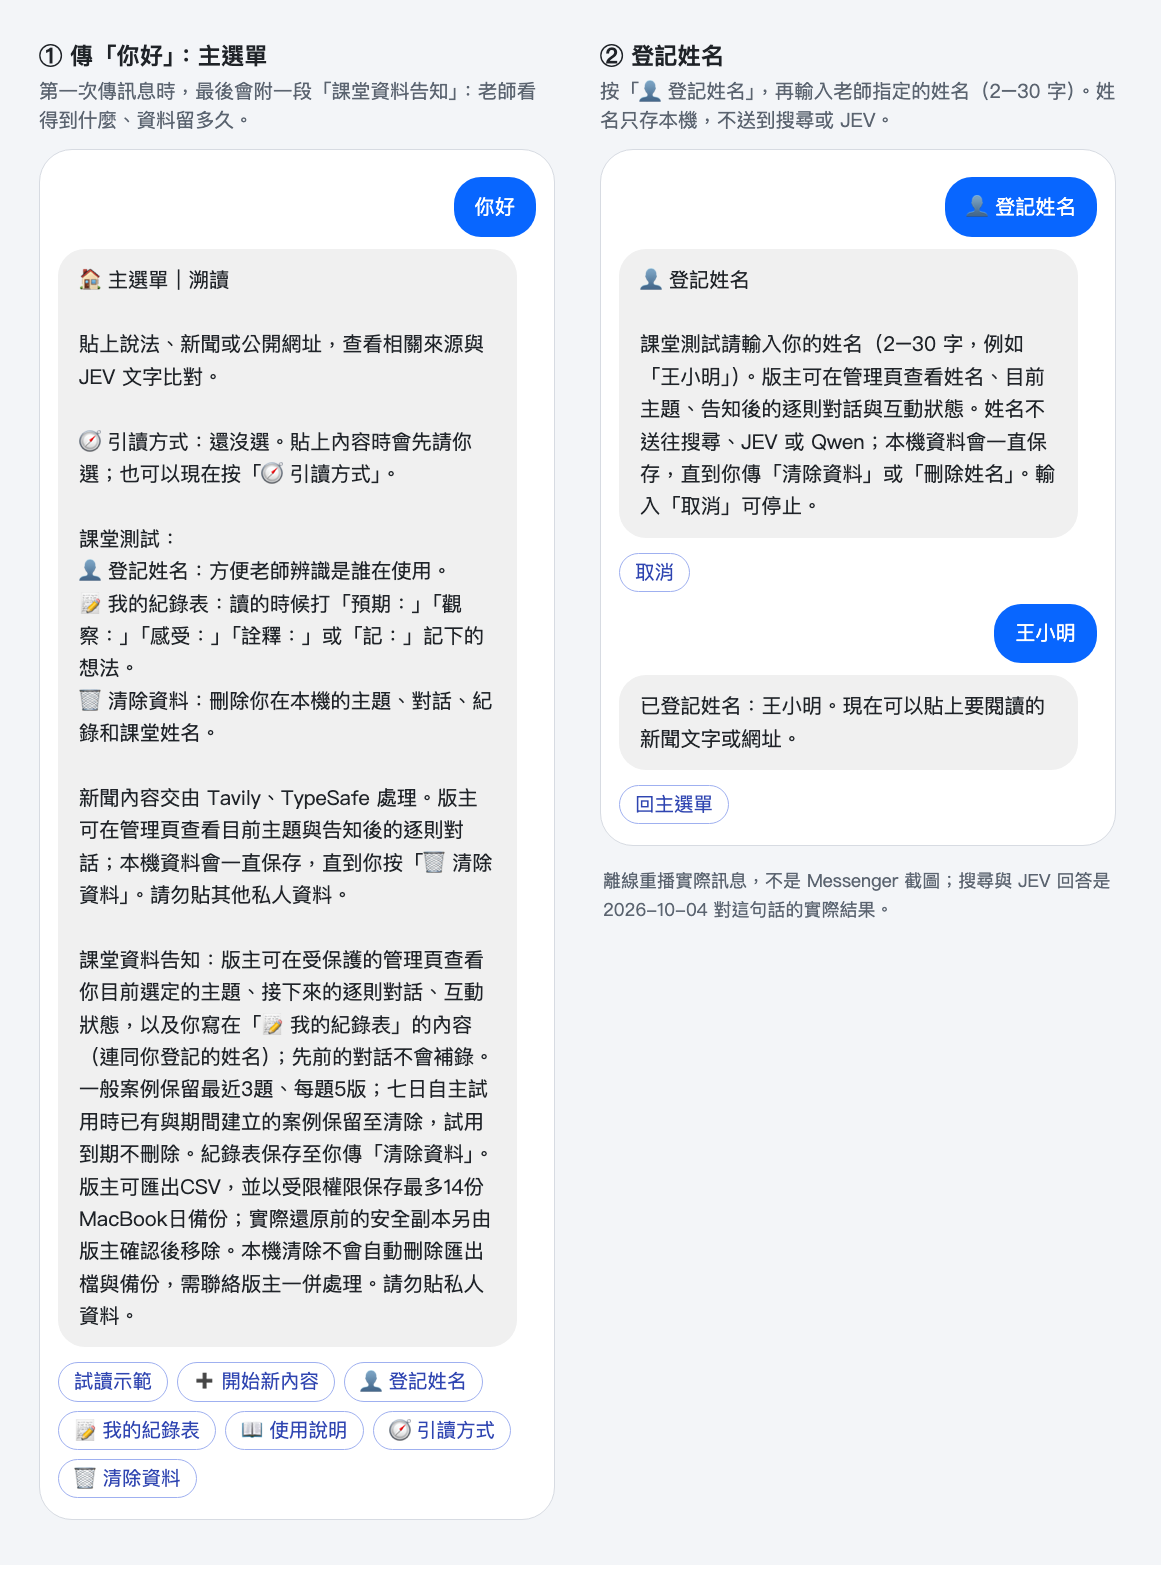
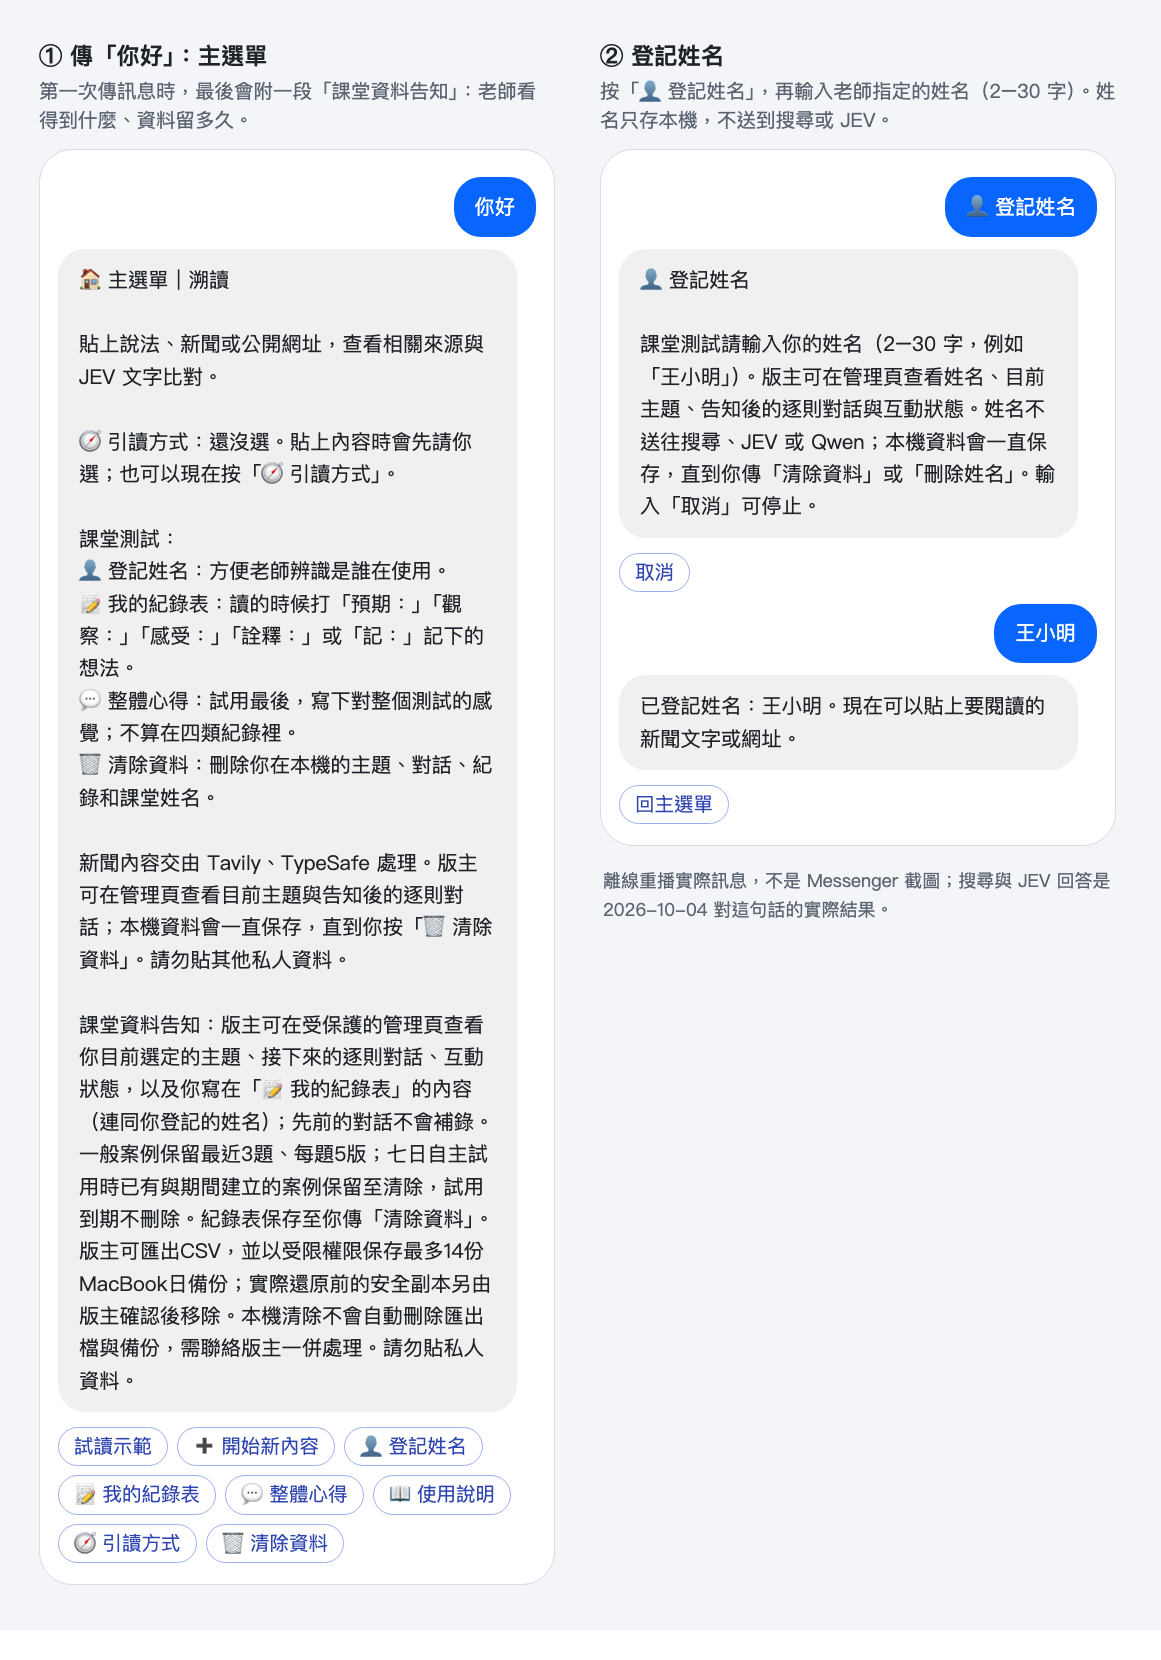
整體心得：側邊選單「💬 整體心得」或打「心得：」，不算在四類裡；圖片更新

diff --git a/README.md b/README.md
@@ -37,6 +37,7 @@
 | 每句最多細讀 2 個來源 | 為了控制等待時間和用量。其他來源只做初篩，在「📚 全部來源」看得到狀態和原因。 |
 | 同一次結果不重新搜尋 | 上一頁、翻頁、換頁只是重看已保存的內容，不花額度。只有「再找資料」「再找這一段」或貼新內容才會再搜尋。 |
 | 📝 使用紀錄表 | 讀的時候打「預期：」「觀察：」「感受：」「詮釋：」「記：」記下想法，閱讀位置不變。老師看得到（連同你登記的姓名）。 |
+| 💬 整體心得 | 試用最後，從側邊選單按「💬 整體心得」（或打「心得：」）寫對整個測試的感覺。另列一區，不算在四類裡。 |
 
 ### 兩種引讀的四步
 
@@ -128,7 +129,7 @@
 
 ![預期、觀察、記：（再按 🏷 觀察分類）的實際回覆](images/student/05-notes-1.png)
 
-![感受、詮釋的實際回覆，以及我的紀錄表](images/student/05-notes-2.png)
+![感受、詮釋的實際回覆、我的紀錄表，以及從側邊選單寫的整體心得](images/student/05-notes-2.png)
 
 | 類別 | 什麼時候寫 | 這個例子寫的 | 機器人回覆 |
 |---|---|---|---|
@@ -150,8 +151,17 @@
 
 - 記下之後，閱讀位置和選項都不變，不算一步。機器人**不回應、不糾正**你寫的內容，也不會拿去搜尋。
 - 「記：」底下會多四個 🏷 按鈕可以馬上分類；不按也行，之後在紀錄表按「🏷 整理未分類」。
-- 打「紀錄表」看全部：依主題、頁和四類排好，沒分類的另列「未分類」，每頁 8 則；「預期」底下寫出「→ 接著看到：…」，方便你對照猜得準不準。按「全文 N」看完整內容。
+- 打「紀錄表」看全部：依主題、頁和四類排好，沒分類的另列「未分類」，整體心得另列在最上面的「━ 整體心得」，每頁 8 則；「預期」底下寫出「→ 接著看到：…」，方便你對照猜得準不準。按「全文 N」看完整內容。
 - 每筆最多保存 2,000 字；寫錯了就另補一筆更正。
+
+#### 💬 整體心得：試用最後寫一筆
+
+上面五種都是讀某一頁時的紀錄。**整體心得**不一樣：寫的是你對**整個測試**的感覺與想法，例如哪裡好用、哪裡困惑、引讀 A 和 B 哪一種比較好讀、為什麼。上圖最右邊一欄是王小明寫的實際回覆：
+
+- 從輸入框旁的側邊選單（或主選單）按「💬 整體心得」。機器人說明要寫什麼、你已經寫了幾則，並請你直接傳下一則訊息。
+- **10 分鐘內傳的下一則訊息**就存成整體心得，不用寫類別；回覆是「📝 記下了（整體心得）」。不想寫了就按「取消」；在這之前按了其他按鈕、打了指令或別的紀錄（例如「觀察：…」），就不會被當成整體心得。
+- 也可以隨時直接打「心得：……」或「整體心得：……」。
+- 整體心得不屬於任何主題、頁或引讀，**不算在預期、觀察、感受、詮釋的則數裡**；紀錄表裡另列在「━ 整體心得」。閱讀位置和選項都不變；老師看得到（連同你登記的姓名）。
 
 ### 6. 迷路時：地圖、⋯ 更多、換引讀
 
@@ -200,6 +210,7 @@
 - [ ] 「記：」寫的紀錄**一定要分類**（按 🏷，或在紀錄表按「🏷 整理未分類」）；沒分類的不算在四類裡。
 - [ ] 每篇新聞讀完 A 和 B 之後，寫一筆總結（見下方「交件」）。
 - [ ] 遇到問題就記一則「觀察：」問題回報。
+- [ ] 試用最後，從側邊選單按「💬 整體心得」寫一筆對整個測試的感覺（或打「心得：…」）；這一筆不算在每類 2 筆裡。
 
 ### 紀錄怎麼寫
 
@@ -210,6 +221,7 @@
 | 感受： | 當下的感覺 | 感受：沒有日期讓我不放心 |
 | 詮釋： | 你怎麼解讀 | 詮釋：可能是把舊聞當新消息 |
 | 記： | 來不及分類，先記下 | 記：來源 3 好像是轉貼 |
+| 心得： | 試用最後，對整個測試的感覺（不算在四類裡；也可以按側邊選單的「💬 整體心得」） | 心得：A 比較好讀，因為先給結論再逐段看 |
 
 **問題回報**也用「觀察：」，照這個格式寫：
 
@@ -265,13 +277,14 @@
 | 近期主題、全部主題、回到 2 | 最近 3 個主題、所有保存的主題、切回第 2 個主題 |
 | 預期：… 觀察：… 感受：… 詮釋：… 記：… | 記一則紀錄 |
 | 紀錄表、整理未分類 | 我的紀錄表；把「記：」一則一則分類 |
+| 心得：…、整體心得：… | 寫一筆整體心得（不算在四類裡）；只打「整體心得」會先說明要寫什麼 |
 | 再找研究 | 補搜尋（會花額度） |
 | 清除資料 | 刪除你的資料（會先問一次） |
 
 ### 不會消失的按鈕
 
-- **輸入框旁的固定選單**：▶ 下一步、↩ 上一步、📌 回第一步、🏠 主選單、🗂 近期主題、🧭 引讀方式。
-- **主選單**：↩ 繼續閱讀（或 🗂 近期主題／試讀示範）、➕ 開始新內容、👤 登記姓名、📝 我的紀錄表、📖 使用說明、🧭 引讀方式、🗑 清除資料。
+- **輸入框旁的固定選單**：▶ 下一步、↩ 上一步、📌 回第一步、🏠 主選單、🗂 近期主題、🧭 引讀方式、💬 整體心得。
+- **主選單**：↩ 繼續閱讀（或 🗂 近期主題／試讀示範）、➕ 開始新內容、👤 登記姓名、📝 我的紀錄表、💬 整體心得、📖 使用說明、🧭 引讀方式、🗑 清除資料。
 
 ### 在自己電腦上跑（選做）
 
@@ -313,7 +326,7 @@ Windows 把 `python3` 換成 `py -3`，例如 `py -3 classroom.py demo`。
 | 為什麼 ▶ 跳過了某一段？ | ▶ 只帶你看不一樣、較保守或 JEV 沒把握的段 | 打「第 1 段」直接看 |
 | 為什麼沒有總分？ | 三組回答問的是不同的題目 | 分開讀，讀完文字對照自己判斷 |
 | 貼了圖片、影片或需要登入的網址 | 只能處理文字和公開可讀的網址 | 把文字複製貼上（5–20,000 字） |
-| 紀錄有沒有存到？ | 存到時會回「📝 記下了（類別）｜頁名」 | 沒看到這一行就當作沒存，先記在自己的文件，之後補記 |
+| 紀錄有沒有存到？ | 存到時會回「📝 記下了（類別）｜頁名」；整體心得是「📝 記下了（整體心得）」 | 沒看到這一行就當作沒存，先記在自己的文件，之後補記 |
 | 資料會留多久？ | 一般最多保留最近 3 個主題、每題 5 個版本；七日自主試用期間的案例保留到你自己清除，試用到期也不刪 | 「近期主題」看最近 3 題，「全部主題」翻頁看較早的案例；紀錄表一直保留到你清除資料 |
 | 想刪掉自己的資料 | 「清除資料」會先問一次 | 按「確定清除」會刪掉姓名、主題、對話和整份紀錄表，選過的引讀也會忘記，**刪了無法補交，成績確認前不要按**。老師已匯出的 CSV、備份和 Meta 聊天紀錄不會跟著刪，要刪請聯絡老師 |
 | 會不會被別人看到？ | 老師在管理頁看得到你的主題、告知後的對話和紀錄表（連同姓名） | 不要貼個資、私訊或金鑰；圖表連結誰拿到都能開，不要轉傳 |
